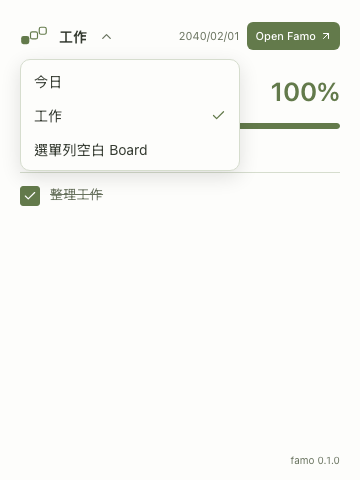
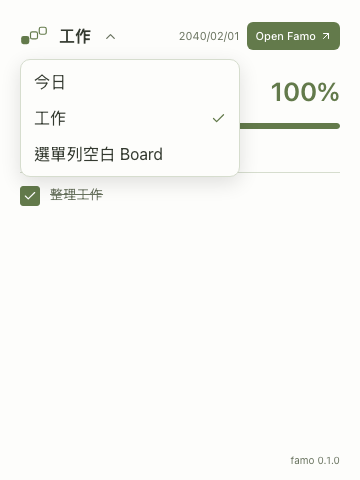
fix: enlarge Board labels and remove focus underlines

diff --git a/web/e2e/menu-bar.spec.ts b/web/e2e/menu-bar.spec.ts
@@ -121,13 +121,18 @@ test('panel switches today’s tasks and progress by Board and remembers the sel
     menu.getByRole('menuitemradio', { name, exact: true })
   const list = page.getByRole('list', { name: '今日任務列表' })
   await expect(picker).toHaveText('今日')
-  await expect(picker).toHaveCSS('font-size', '14px')
+  await expect(picker).toHaveCSS('font-size', '16px')
   await expect(list.getByRole('listitem')).toHaveCount(2)
   await expect(page.locator('footer')).toHaveText(/^famo \d+\.\d+\.\d+$/)
 
   await picker.press('ArrowDown')
   await expect(choice('今日')).toBeFocused()
   await expect(choice('今日')).toHaveAttribute('aria-checked', 'true')
+  await expect(choice('今日')).toHaveCSS('font-size', '16px')
+  await expect(choice('今日').locator('span')).toHaveCSS(
+    'text-decoration-line',
+    'none',
+  )
   await page.keyboard.press('ArrowDown')
   await expect(choice('今日')).not.toBeFocused()
   await page.keyboard.press('Escape')

diff --git a/web/src/index.css b/web/src/index.css
@@ -30,7 +30,7 @@
   min-height: 36px;
   padding: 0 6px;
   color: var(--foreground);
-  font-size: 14px;
+  font-size: 16px;
   font-weight: 600;
   cursor: pointer;
 }
@@ -75,16 +75,12 @@
   padding: 6px 9px;
   border-radius: 6px;
   color: var(--foreground);
-  font-size: 14px;
+  font-size: 16px;
   text-align: left;
   cursor: pointer;
 }
 .menu-bar-board-menu button:hover {
   background: var(--accent);
-}
-.menu-bar-board-menu button:focus-visible span {
-  text-decoration: underline;
-  text-underline-offset: 3px;
 }
 .menu-bar-board-menu span {
   overflow-wrap: anywhere;
